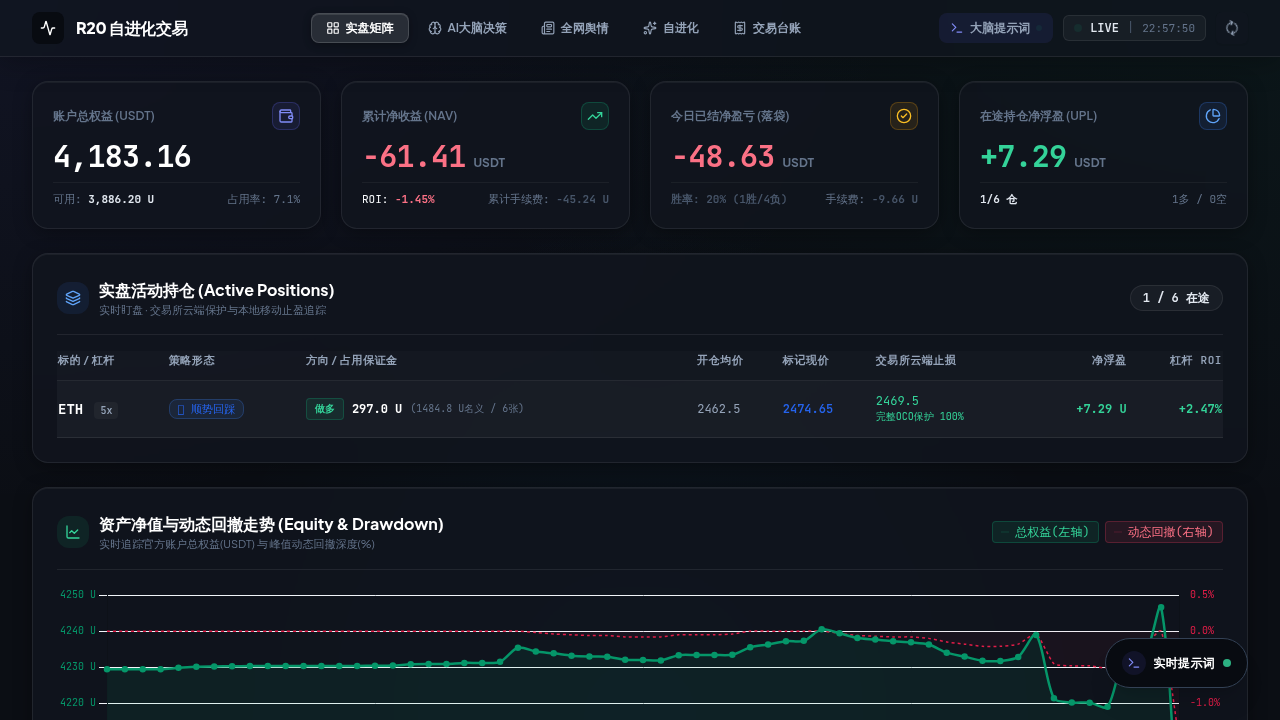
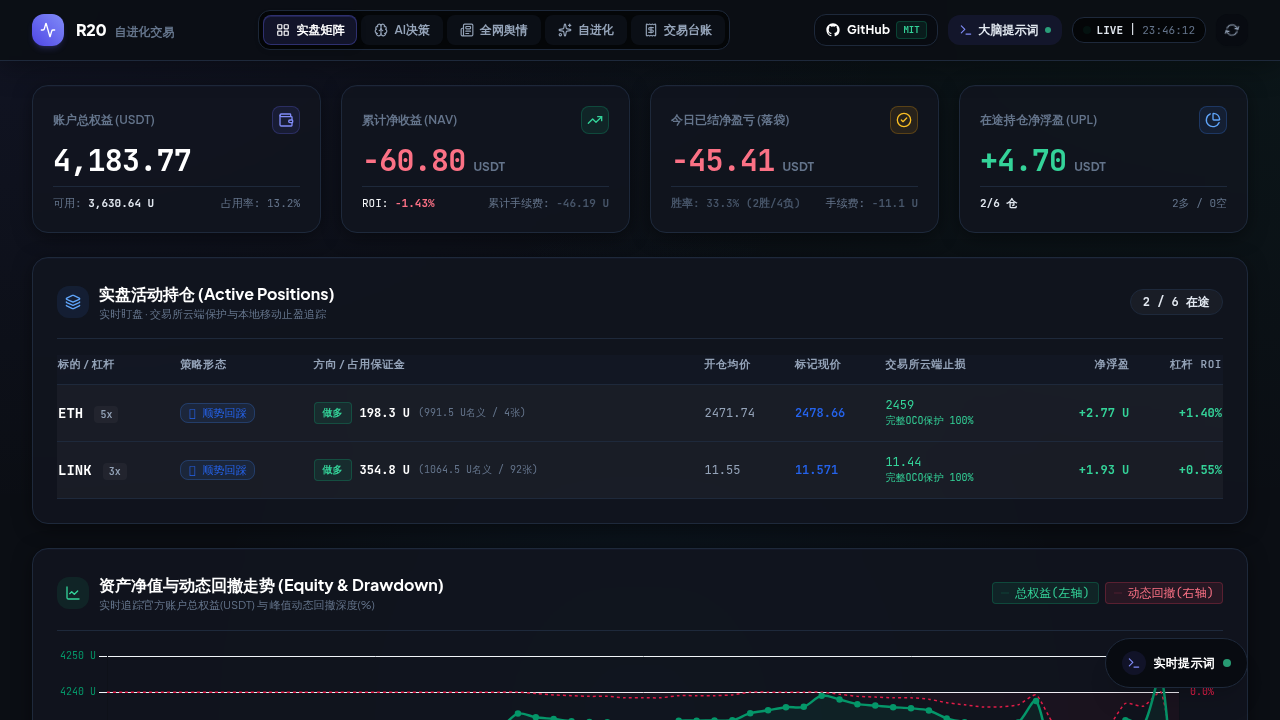
style: refine all terminal borders to subtle deep slate/titanium tone (#1E293B) and refresh hero screenshot

diff --git a/dashboard/templates/index.html b/dashboard/templates/index.html
@@ -118,9 +118,9 @@
             --ui-surface: #11151F;
             --ui-surface-hover: #161B26;
             --ui-surface-subtle: #181E2B;
-            --ui-border: rgba(255, 255, 255, 0.08);
-            --ui-border-hover: rgba(255, 255, 255, 0.16);
-            --ui-border-highlight: rgba(99, 102, 241, 0.3);
+            --ui-border: #1E293B;
+            --ui-border-hover: #334155;
+            --ui-border-highlight: rgba(99, 102, 241, 0.35);
             --ui-ink: #F8FAFC;
             --ui-ink-secondary: #94A3B8;
             --ui-muted: #64748B;
@@ -148,27 +148,27 @@
 
         /* Institutional Terminal Cards */
         .custom-card {
-            background: rgba(17, 21, 31, 0.75) !important;
+            background: rgba(17, 21, 31, 0.8) !important;
             backdrop-filter: blur(16px) !important;
             -webkit-backdrop-filter: blur(16px) !important;
             border: 1px solid var(--ui-border) !important;
             border-radius: 16px !important;
-            box-shadow: 0 4px 20px -2px rgba(0, 0, 0, 0.4), inset 0 1px 0 0 rgba(255, 255, 255, 0.05) !important;
+            box-shadow: 0 4px 20px -2px rgba(0, 0, 0, 0.5), inset 0 1px 0 0 rgba(99, 102, 241, 0.04) !important;
             transition: all 0.25s cubic-bezier(0.16, 1, 0.3, 1) !important;
         }
         .custom-card:hover {
             border-color: var(--ui-border-hover) !important;
-            box-shadow: 0 12px 32px -4px rgba(0, 0, 0, 0.5), inset 0 1px 0 0 rgba(255, 255, 255, 0.08) !important;
+            box-shadow: 0 12px 32px -4px rgba(0, 0, 0, 0.6), inset 0 1px 0 0 rgba(99, 102, 241, 0.08) !important;
             transform: translateY(-1px);
         }
 
         /* Sleek Glass Header */
         header {
-            background: rgba(11, 14, 20, 0.85) !important;
+            background: rgba(11, 14, 20, 0.9) !important;
             backdrop-filter: blur(20px) !important;
             -webkit-backdrop-filter: blur(20px) !important;
             border-bottom: 1px solid var(--ui-border) !important;
-            box-shadow: 0 4px 30px rgba(0, 0, 0, 0.3) !important;
+            box-shadow: 0 4px 30px rgba(0, 0, 0, 0.4) !important;
         }
         header h1 {
             color: #FFFFFF !important;
@@ -178,10 +178,10 @@
 
         /* Nav Pills (Linear Style) */
         header .nav-pill-active {
-            background: rgba(255, 255, 255, 0.1) !important;
+            background: rgba(99, 102, 241, 0.15) !important;
             color: #FFFFFF !important;
-            border: 1px solid rgba(255, 255, 255, 0.15) !important;
-            box-shadow: 0 2px 8px rgba(0, 0, 0, 0.3), inset 0 1px 0 0 rgba(255, 255, 255, 0.1) !important;
+            border: 1px solid rgba(99, 102, 241, 0.35) !important;
+            box-shadow: 0 2px 8px rgba(0, 0, 0, 0.3), inset 0 1px 0 0 rgba(99, 102, 241, 0.2) !important;
             backdrop-filter: blur(8px) !important;
         }
         header button:not(.nav-pill-active) {
@@ -190,13 +190,13 @@
         }
         header button:not(.nav-pill-active):hover {
             color: #FFFFFF !important;
-            background: rgba(255, 255, 255, 0.05) !important;
+            background: rgba(255, 255, 255, 0.04) !important;
         }
 
         /* Modern Dark Tables */
         table thead tr {
             border-bottom: 1px solid var(--ui-border) !important;
-            background: rgba(255, 255, 255, 0.02);
+            background: rgba(30, 41, 59, 0.2);
         }
         table th {
             color: #94A3B8 !important;
@@ -206,11 +206,11 @@
             letter-spacing: 0.05em !important;
         }
         table tbody tr {
-            border-bottom: 1px solid rgba(255, 255, 255, 0.04) !important;
+            border-bottom: 1px solid rgba(30, 41, 59, 0.4) !important;
             transition: background 0.15s ease;
         }
         table tbody tr:hover {
-            background: rgba(255, 255, 255, 0.03) !important;
+            background: rgba(30, 41, 59, 0.2) !important;
         }
 
         /* Scrollbars */
@@ -323,8 +323,11 @@
             border-color: rgba(6, 182, 212, 0.25) !important;
         }
 
-        [class*="border-slate-100"], [class*="border-slate-200"] {
-            border-color: rgba(255, 255, 255, 0.08) !important;
+        [class*="border-slate-100"], [class*="border-slate-200"], [class*="border-slate-700"] {
+            border-color: #1E293B !important;
+        }
+        [class*="border-white"] {
+            border-color: #1E293B !important;
         }
         
         /* Badges & Status */
@@ -383,7 +386,7 @@
     </div>
 
     <!-- Clean Modern Glass Header -->
-    <header class="sticky top-0 z-40 bg-[#0B0E14]/90 backdrop-blur-xl border-b border-white/10 px-4 sm:px-6 lg:px-8 py-2.5 transition-all">
+    <header class="sticky top-0 z-40 bg-[#0B0E14]/90 backdrop-blur-xl border-b border-slate-800 px-4 sm:px-6 lg:px-8 py-2.5 transition-all">
         <div class="max-w-[1720px] mx-auto flex items-center justify-between gap-3 sm:gap-4">
             <!-- Brand & Status -->
             <div class="flex items-center space-x-3 shrink-0">
@@ -397,7 +400,7 @@
             </div>
 
             <!-- Desktop Nav Tabs (Segmented Capsule) -->
-            <div class="hidden md:flex items-center space-x-1 bg-slate-950/60 p-1 rounded-xl border border-white/8 backdrop-blur-md">
+            <div class="hidden md:flex items-center space-x-1 bg-slate-950/60 p-1 rounded-xl border border-slate-800 backdrop-blur-md">
                 <button onclick="switchMainTab('trading')" id="top-nav-btn-trading" class="px-3 py-1.5 rounded-lg text-xs font-bold transition nav-pill-active flex items-center space-x-1.5">
                     <i data-lucide="layout-grid" class="w-3.5 h-3.5"></i>
                     <span>实盘矩阵</span>
@@ -438,7 +441,7 @@
                     <span class="w-1.5 h-1.5 rounded-full bg-emerald-400 animate-pulse"></span>
                 </button>
 
-                <div class="hidden lg:flex items-center space-x-1.5 px-2.5 py-1 rounded-xl bg-slate-950/60 border border-white/5 text-xs font-mono">
+                <div class="hidden lg:flex items-center space-x-1.5 px-2.5 py-1 rounded-xl bg-slate-950/60 border border-slate-800 text-xs font-mono">
                     <span class="w-2 h-2 rounded-full bg-emerald-500 animate-pulse"></span>
                     <span class="text-slate-200 font-bold text-[11px]">LIVE</span>
                     <span class="text-slate-700">|</span>
@@ -471,7 +474,7 @@
                     </div>
                     <div>
                         <div id="metric-equity" class="text-2xl sm:text-3xl font-extrabold font-mono tracking-tight text-white">--</div>
-                        <div class="flex items-center justify-between text-[11px] font-mono text-slate-400 mt-2 pt-2 border-t border-white/5">
+                        <div class="flex items-center justify-between text-[11px] font-mono text-slate-400 mt-2 pt-2 border-t border-slate-800">
                             <span>可用: <strong id="metric-avail" class="text-slate-200">--</strong></span>
                             <span id="metric-margin-usage" class="text-slate-400">占用率: 0%</span>
                         </div>
@@ -491,7 +494,7 @@
                             <span id="metric-cum-pnl" class="text-2xl sm:text-3xl font-extrabold font-mono tracking-tight text-emerald-400">--</span>
                             <span class="text-xs font-bold text-slate-500">USDT</span>
                         </div>
-                        <div class="flex items-center justify-between text-[11px] font-mono mt-2 pt-2 border-t border-white/5">
+                        <div class="flex items-center justify-between text-[11px] font-mono mt-2 pt-2 border-t border-slate-800">
                             <span>ROI: <strong id="metric-cum-roi" class="text-emerald-400 font-bold">--</strong></span>
                             <span class="text-slate-400">累计手续费: <strong id="metric-cum-fees" class="text-slate-300">--</strong></span>
                         </div>
@@ -511,7 +514,7 @@
                             <span id="metric-realized-pnl" class="text-2xl sm:text-3xl font-extrabold font-mono tracking-tight text-slate-200">--</span>
                             <span class="text-xs font-bold text-slate-500">USDT</span>
                         </div>
-                        <div class="flex items-center justify-between text-[11px] font-mono mt-2 pt-2 border-t border-white/5">
+                        <div class="flex items-center justify-between text-[11px] font-mono mt-2 pt-2 border-t border-slate-800">
                             <span id="metric-today-wr" class="text-slate-300 font-semibold">胜率: 0%</span>
                             <span class="text-slate-400">手续费: <strong id="metric-fees" class="text-slate-300">0 U</strong></span>
                         </div>
@@ -531,7 +534,7 @@
                             <span id="metric-upl" class="text-2xl sm:text-3xl font-extrabold font-mono tracking-tight text-white">--</span>
                             <span class="text-xs font-bold text-slate-500">USDT</span>
                         </div>
-                        <div class="flex items-center justify-between text-[11px] font-mono mt-2 pt-2 border-t border-white/5">
+                        <div class="flex items-center justify-between text-[11px] font-mono mt-2 pt-2 border-t border-slate-800">
                             <span id="metric-pos-count" class="text-slate-200 font-semibold">0/6 仓</span>
                             <span id="metric-pos-direction" class="text-slate-400">0多 / 0空</span>
                         </div>
@@ -847,7 +850,7 @@
                 </div>
                 <div class="overflow-x-auto custom-scrollbar max-h-[580px]">
                     <table class="w-full text-left text-xs whitespace-nowrap">
-                        <thead class="sticky top-0 bg-[#0B0E14] z-10 border-b border-white/10">
+                        <thead class="sticky top-0 bg-[#0B0E14] z-10 border-b border-slate-800">
                             <tr class="text-slate-400 font-semibold">
                                 <th class="py-3 px-3.5 whitespace-nowrap">标的 / 方向</th>
                                 <th class="py-3 px-3.5 whitespace-nowrap">策略形态</th>
@@ -859,7 +862,7 @@
                                 <th class="py-3 px-3.5 whitespace-nowrap">出场原因</th>
                             </tr>
                         </thead>
-                        <tbody id="trades-tbody" class="divide-y divide-white/5 font-mono">
+                        <tbody id="trades-tbody" class="divide-y divide-slate-800/60 font-mono">
                             <tr><td colspan="8" class="py-8 text-center text-slate-500 font-sans">加载台账中...</td></tr>
                         </tbody>
                     </table>
@@ -883,7 +886,7 @@
     </main>
 
     <!-- Modern Dark Footer with GitHub Ecosystem -->
-    <footer class="max-w-[1680px] mx-auto px-4 sm:px-8 py-8 mt-12 mb-16 md:mb-0 border-t border-white/5 flex flex-col sm:flex-row items-center justify-between text-xs text-slate-400 gap-4">
+    <footer class="max-w-[1680px] mx-auto px-4 sm:px-8 py-8 mt-12 mb-16 md:mb-0 border-t border-slate-800 flex flex-col sm:flex-row items-center justify-between text-xs text-slate-400 gap-4">
         <div class="flex items-center space-x-3">
             <div class="w-6 h-6 rounded-lg bg-indigo-500/10 border border-indigo-500/20 flex items-center justify-center text-indigo-400 font-mono font-bold text-xs">⚡</div>
             <span class="font-bold text-white tracking-wide">R20 Quantum Trader</span>
@@ -1555,7 +1558,7 @@
                 const timeTagHtml = timeTag ? `<span class="text-[9px] font-mono text-slate-500">⏱ ${timeTag.substring(11, 19) || timeTag}</span>` : '';
 
                 html += `
-                    <div onclick="openCoinFactorModal('${instName}')" class="p-4 rounded-2xl bg-slate-900/40 border border-white/8 hover:border-indigo-500/40 hover:bg-slate-900/70 hover:shadow-xl cursor-pointer transition flex flex-col justify-between space-y-3 group">
+                    <div onclick="openCoinFactorModal('${instName}')" class="p-4 rounded-2xl bg-slate-900/40 border border-slate-800 hover:border-indigo-500/40 hover:bg-slate-900/70 hover:shadow-xl cursor-pointer transition flex flex-col justify-between space-y-3 group">
                         <!-- Top Bar: Asset & Price -->
                         <div class="flex items-center justify-between">
                             <div class="flex items-center space-x-1.5">
@@ -1569,7 +1572,7 @@
                         </div>
 
                         <!-- 1. Ticker & Orderbook Microstructure Depth -->
-                        <div class="bg-slate-950/60 px-2.5 py-1.5 rounded-xl border border-white/5 flex items-center justify-between font-mono text-[10px]">
+                        <div class="bg-slate-950/60 px-2.5 py-1.5 rounded-xl border border-slate-800/80 flex items-center justify-between font-mono text-[10px]">
                             <div>
                                 <span class="text-slate-500 block font-sans text-[9px]">现价</span>
                                 <span class="text-xs font-bold text-white">${px}</span>
@@ -1581,7 +1584,7 @@
                         </div>
 
                         <!-- 2. Integrated 4-Pillar Quantitative Factor Grid (ADX, RSI, CMF, ATR) -->
-                        <div class="grid grid-cols-4 gap-1 bg-slate-950/60 p-2 rounded-xl border border-white/5 text-[10px] font-mono text-center">
+                        <div class="grid grid-cols-4 gap-1 bg-slate-950/60 p-2 rounded-xl border border-slate-800/80 text-[10px] font-mono text-center">
                             <div>
                                 <span class="text-slate-500 block font-sans text-[9px]">1H ADX</span>
                                 <strong class="${Number(adx) >= 22 ? 'text-indigo-400 font-extrabold' : 'text-slate-400'}">${adx}</strong>
@@ -1621,7 +1624,7 @@
                         </div>
 
                         <!-- 5. Bottom Action & Execution Status -->
-                        <div class="pt-1.5 border-t border-white/5 flex items-center justify-between">
+                        <div class="pt-1.5 border-t border-slate-800 flex items-center justify-between">
                             <span class="text-[10px] text-slate-500 font-mono">费率: ${fr} | OI: ${oi}</span>
                             ${actionBadge}
                         </div>
@@ -1955,8 +1958,8 @@
                 }
 
                 html += `
-                    <div class="p-4 rounded-2xl bg-slate-900/40 border border-white/8 space-y-2 hover:border-cyan-500/30 hover:bg-slate-900/70 transition">
-                        <div class="flex flex-col sm:flex-row sm:items-center justify-between gap-1.5 border-b border-white/5 pb-2">
+                    <div class="p-4 rounded-2xl bg-slate-900/40 border border-slate-800 space-y-2 hover:border-cyan-500/30 hover:bg-slate-900/70 transition">
+                        <div class="flex flex-col sm:flex-row sm:items-center justify-between gap-1.5 border-b border-slate-800 pb-2">
                             <div class="flex items-center space-x-2">
                                 <span class="text-xs font-mono font-bold text-slate-200 bg-slate-800 px-2 py-0.5 rounded-lg border border-slate-700">${timeStr}</span>
                                 <span class="text-xs font-bold">${badgeSummary}</span>
@@ -2081,7 +2084,7 @@
                 } else {
                     let html = '';
                     insights.forEach(ins => {
-                        html += `<div class="p-3 rounded-xl bg-slate-900/60 border border-white/5 text-slate-300 leading-relaxed text-xs flex items-start space-x-2.5">
+                        html += `<div class="p-3 rounded-xl bg-slate-900/60 border border-slate-800 text-slate-300 leading-relaxed text-xs flex items-start space-x-2.5">
                             <span class="text-amber-400 font-bold shrink-0">💡</span>
                             <div class="flex flex-col space-y-0.5">
                                 <span class="text-[10px] font-mono text-slate-500">${timeStr}</span>
@@ -2208,7 +2211,7 @@
                 const exitReason = t.exit_reason || (isHolding ? '⏳ 实时监控中' : '平仓完成');
 
                 html += `
-                    <tr class="hover:bg-slate-800/40 transition border-b border-white/5 ${isHolding ? 'bg-blue-950/20' : ''}">
+                    <tr class="hover:bg-slate-800/40 transition border-b border-slate-800/60 ${isHolding ? 'bg-blue-950/20' : ''}">
                         <td class="py-3 px-3.5 whitespace-nowrap">
                             <div class="flex items-center space-x-2">
                                 <span class="font-bold text-white text-xs">${t.inst}</span>
@@ -2216,7 +2219,7 @@
                             </div>
                         </td>
                         <td class="py-3 px-3.5 whitespace-nowrap">
-                            <span class="px-2.5 py-1 rounded-lg bg-slate-800/80 text-slate-300 border border-white/5 text-[11px] font-medium inline-block">${t.strategy || '⚪ 观望'}</span>
+                            <span class="px-2.5 py-1 rounded-lg bg-slate-800/80 text-slate-300 border border-slate-700/60 text-[11px] font-medium inline-block">${t.strategy || '⚪ 观望'}</span>
                         </td>
                         <td class="py-3 px-3.5 whitespace-nowrap font-bold text-slate-200">${marginDisplay}</td>
                         <td class="py-3 px-3.5 whitespace-nowrap">
